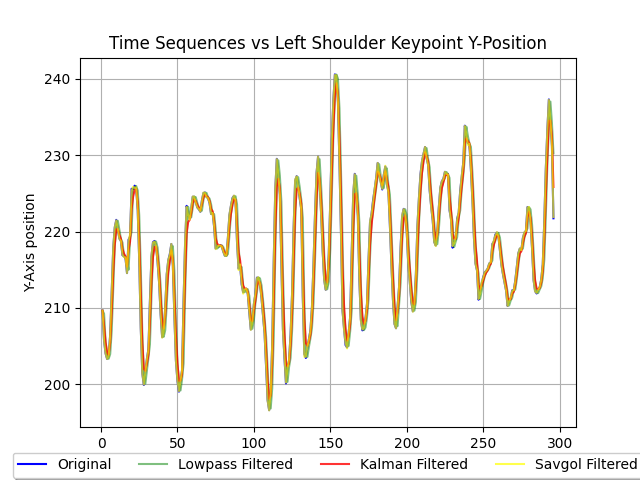
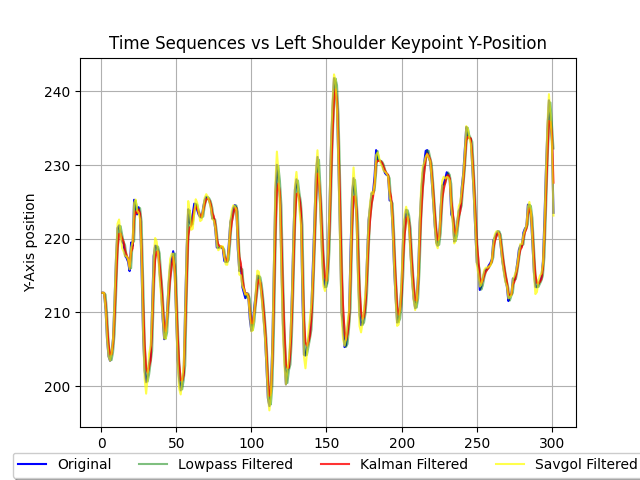
up

diff --git a/Compare_Time.py b/Compare_Time.py
@@ -11,16 +11,41 @@ jointNum = 33
 alpha = 0.1
 valuescy = []
 values, valuesLow, valuesKalman, valuesSavgol = [], [], [], []
+valuesMix = []
+mix = []
 kf = KalmanFilter(initial_state_mean=0, n_dim_obs=1)
+def Kalman1D(observations, damping, previous, cov):
+    # To return the smoothed time series data
+    observation_covariance = damping
+    initial_value_guess = observations
+    transition_matrix = 1
+    transition_covariance = cov
+    kf = KalmanFilter(
+            initial_state_mean=initial_value_guess,
+            initial_state_covariance=observation_covariance,
+            observation_covariance=observation_covariance,
+            transition_covariance=transition_covariance,
+            transition_matrices=transition_matrix
+        )
+    pred_state, state_cov = kf.filter_update(previous, transition_covariance, observations)
+    return pred_state[0][0]
+
 mpPose = mp.solutions.pose  # 导入BlazePose模型
 mpDraw = mp.solutions.drawing_utils  # 对识别到的人体进行描边，可视化给操作人员
 pose = mpPose.Pose(min_detection_confidence=0.97, min_tracking_confidence=0.97)
+
+values1, values2, values3, values4 = [], [], [], []
 
 def Capinit(cap, pose, opcode):
     begin = time.time()
     sequenceNum = 0
     while True:
+        now = time.time()
         success, img = cap.read()  # 若成功读取到人体动态，success会变为true
+        cv2.imshow("Image", img)
+        key = cv2.waitKey(1)
+        if key == ord("q"):
+            break
         if success:
             imgRGB = cv2.cvtColor(img, cv2.COLOR_BGR2RGB)  # 将读取到的这一帧转为RGB图像用于传入模型
             results = pose.process(imgRGB)  # 模型输出了33个人体采样点
@@ -33,66 +58,55 @@ def Capinit(cap, pose, opcode):
                         # 主数据预处理
                         h, w, c = img.shape  # h,w,c 获得当前摄像头显示图像的宽高比
                         cx, cy = lm.x * w, lm.y * 480
-                        if opcode == 0:
-                            continue
                         if opcode == 1:
-                            values.append(str(time.time() - begin) + ',' + str(cy))
-                        if opcode == 2:
-                            # 使用一阶低通滤波器
-                            if sequenceNum == 1:
-                                valuesLow.append(str(time.time() - begin) + ',' + str(cy))
+                            values1.append(str(time.time() - begin) + ',' + str(cy))
                             if sequenceNum > 1:
                                 valuesLow.append(
                                     str(time.time() - begin) + ',' + str(alpha * cy + (1 - alpha) * previousCy))
                             previousCy = cy
-                        if opcode == 3:
-                            # 使用卡尔曼滤波器进行状态估计
+                        if opcode == 2:
+                            values2.append(str(now - begin) + ',' + str(cy))
                             if sequenceNum == 1:
-                                state_mean, state_cov = cy, 0.001
-                                valuesKalman.append(str(time.time() - begin) + ',' + str(state_mean))
+                                state_mean, state_cov = cy, 0.01
+                                state_mean, state_cov = kf.filter_update(state_mean, state_cov, cy)
+                                state_mean_value = state_mean[0][0]
+                                valuesKalman.append(str(time.time() - begin) + ',' + str(state_mean_value))
                             else:
                                 state_mean, state_cov = kf.filter_update(state_mean, state_cov, cy)
                                 state_mean_value = state_mean[0][0]
                                 valuesKalman.append(str(time.time() - begin) + ',' + str(state_mean_value))
+                        if opcode == 3:
+                            values4.append(str(now - begin) + ',' + str(cy))
+                            if sequenceNum == 1:
+                                mix.append(cy)
+                            if sequenceNum > 1:
+                                Mix = 0.7 * cy + (1 - 0.7) * previousCy2
+                                state_mean_value2 = Kalman1D(Mix, 0.013, mix[sequenceNum - 2], 0.03)
+                                mix.append(state_mean_value2)
+                                valuesMix.append(str(time.time() - begin) + ',' + str(state_mean_value2))
+                            previousCy2 = cy
                         if opcode == 4:
-                            window_length = 7  # 窗口长度（奇数）
-                            polyorder = 3  # 多项式阶数
+                            window_length = 7
+                            polyorder = 3
                             valuescy.append(cy)
+                            values3.append(str(now - begin) + ',' + str(cy))
                             if sequenceNum >= window_length:
                                 y_smoothed = savgol_filter(valuescy[-window_length:], window_length, polyorder)
                                 valuesSavgol.append(str(time.time() - begin) + ',' + str(y_smoothed[-1]))
                             else:
                                 valuesSavgol.append(str(time.time() - begin) + ',' + str(cy))
+
             else:
                 continue
         else:
             break
+
     cap.release()
     cv2.destroyAllWindows()
 
-# 第0轮
-cap = cv2.VideoCapture("C:/Users/ALIENWARE/Desktop/Study/AI/Tewst.mp4")  # 用外置摄像头实时捕捉
-cap.set(cv2.CAP_PROP_FPS, 30)
-Capinit(cap, pose, 0)
-
-# 第1轮
-cap = cv2.VideoCapture("C:/Users/ALIENWARE/Desktop/Study/AI/Tewst.mp4")  # 用外置摄像头实时捕捉
-cap.set(cv2.CAP_PROP_FPS, 30)
-Capinit(cap, pose, 1)
-
-# 第2轮
-cap = cv2.VideoCapture("C:/Users/ALIENWARE/Desktop/Study/AI/Tewst.mp4")  # 用外置摄像头实时捕捉
-cap.set(cv2.CAP_PROP_FPS, 30)
-Capinit(cap, pose, 2)
-
-# 第3轮
-cap = cv2.VideoCapture("C:/Users/ALIENWARE/Desktop/Study/AI/Tewst.mp4")  # 用外置摄像头实时捕捉
-cap.set(cv2.CAP_PROP_FPS, 30)
-Capinit(cap, pose, 4)
-
-# 第4轮
-cap = cv2.VideoCapture("C:/Users/ALIENWARE/Desktop/Study/AI/Tewst.mp4")  # 用外置摄像头实时捕捉
-cap.set(cv2.CAP_PROP_FPS, 30)
+# opcode
+cap = cv2.VideoCapture(1)  # 用外置摄像头实时捕捉
+cap.set(cv2.CAP_PROP_FPS, 30)  # 尝试将帧率设置为30帧每秒
 Capinit(cap, pose, 3)
 
 def Flatten(values, numOrders, numCys):
@@ -103,25 +117,37 @@ def Flatten(values, numOrders, numCys):
 
 numOrders1, numOrders2, numOrders3, numOrders4 = [], [], [], []
 numCys1, numCys2, numCys3, numCys4 = [], [], [], []
+numCy1, numCy2, numCy3, numCy4 = [], [], [], []
+num1, num2, num3, num4 = [], [], [], []
+Flatten(valuesLow, numOrders1, numCys1)
+Flatten(values1, num1, numCy1)
+Flatten(valuesKalman, numOrders2, numCys2)
+Flatten(values2, num2, numCy2)
+Flatten(valuesSavgol, numOrders3, numCys3)
+Flatten(values3, num3, numCy3)
+Flatten(valuesMix, numOrders4, numCys4)
+Flatten(values4, num4, numCy4)
+# plt.plot(num1, numCy1, label='Original_Lowpass', color='blue')
+# plt.plot(numOrders1, numCys1, label='Lowpass Filtered', color='green', alpha=1)
+# plt.plot(num2, numCy2, label='Original', color='blue')
+# plt.plot(numOrders2, numCys2, label='Kalman Filtered', color='red', alpha=1)
+# plt.plot(num3, numCy3, label='Original', color='blue')
+# plt.plot(numOrders3, numCys3, label='Savgol Filtered', color='orange', alpha=1)
+plt.plot(num4, numCy4, label='Original', color='blue')
+plt.plot(numOrders4, numCys4, label='Mixed Filtered', color='orange', alpha=1)
 
-Flatten(values, numOrders1, numCys1)
-Flatten(valuesLow, numOrders2, numCys2)
-Flatten(valuesKalman, numOrders3, numCys3)
-Flatten(valuesSavgol, numOrders4, numCys4)
-
-plt.plot(numOrders1, numCys1, label='Original', color='blue')
-plt.plot(numOrders2, numCys2, label='Lowpass Filtered', color='green', alpha=0.5)
-plt.plot(numOrders3, numCys3, label='Kalman Filtered', color='red', alpha=0.8)
-plt.plot(numOrders4, numCys4, label='Savgol Filtered', color='yellow', alpha=0.7)
 plt.xlabel('Time Sequences')
 plt.ylabel('Y-Axis position')
 plt.title('Time Sequences vs Left Shoulder Keypoint Y-Position')
-plt.legend(loc='upper center', bbox_to_anchor=(0.5, -0.05), shadow=True, ncol=4)
+plt.legend(loc='upper center', bbox_to_anchor=(0.5, -0.05), shadow=True, ncol=2)
 plt.grid()
 plt.show()
 
-d = np.mean(np.array(numOrders2) - np.array(numOrders1))
-e = np.mean(np.array(numOrders3) - np.array(numOrders1))
-f = np.mean(np.array(numOrders4) - np.array(numOrders1))
+num4.pop()
 
-print(d, e, f)
+d = np.mean(np.array(numOrders1) - np.array(num1))
+e = np.mean(np.array(numOrders2) - np.array(num2))
+f = np.mean(np.array(numOrders3) - np.array(num3))
+g = np.mean(np.array(numOrders4) - np.array(num4))
+
+print(d, e, f, g)

diff --git a/Compare.py b/Compare.py
@@ -21,9 +21,26 @@ sequenceNum = 0
 # 初始化一阶低通滤波器
 alpha = 0.1
 valuesLow = []
-kf = KalmanFilter(initial_state_mean=208, n_dim_obs=1)
+valuesMix = []
 valuesSavgol = []
 valuescy = []
+
+def Kalman1D(observations, damping, previous, cov):
+    # To return the smoothed time series data
+    observation_covariance = damping
+    initial_value_guess = observations
+    transition_matrix = 1
+    transition_covariance = cov
+    kf = KalmanFilter(
+            initial_state_mean=initial_value_guess,
+            initial_state_covariance=observation_covariance,
+            observation_covariance=observation_covariance,
+            transition_covariance=transition_covariance,
+            transition_matrices=transition_matrix
+        )
+    pred_state, state_cov = kf.filter_update(previous, transition_covariance, observations)
+    return pred_state[0][0]
+
 while True:
     success, img = cap.read()  # 若成功读取到人体动态，success会变为true
     if success:
@@ -39,19 +56,26 @@ while True:
                         h, w, c = img.shape  # h,w,c 获得当前摄像头显示图像的宽高比
                         data = np.array([lm.x * w, lm.y * 480, lm.z * 1000])  # 直接获取关键点的坐标
                         cx, cy = lm.x * w, lm.y * 480
-                        cy = cy - sequenceNum * 0.005
-                        if sequenceNum > 350 and sequenceNum < 450:
-                            cy = cy + sequenceNum * 0.0085
                         valuescy.append(cy)
                         values.append(str(sequenceNum) + ',' + str(cy))
 
+                        # 混合滤波器
+                        if sequenceNum == 1:
+                            state_mean_value2 = Kalman1D(cy, 0.013, cy, 0.03)
+                            valuesMix.append(state_mean_value2)
+                        if sequenceNum > 1:
+                            Mix = 0.7 * cy + (1 - 0.7) * previousCy2
+                            state_mean_value2 = Kalman1D(Mix, 0.013, valuesMix[sequenceNum-2], 0.03)
+                            valuesMix.append(state_mean_value2)
+                        previousCy2 = cy
+
                         # 使用卡尔曼滤波器进行状态估计
                         if sequenceNum == 1:
-                            state_mean, state_cov = cy, 0.001
-                            valuesKalman.append(state_mean)
+                            state_mean, state_cov = cy, 0.01
+                            state_mean_value = Kalman1D(cy, 0.013, cy, 0.01)
+                            valuesKalman.append(state_mean_value)
                         else:
-                            state_mean, state_cov = kf.filter_update(state_mean, state_cov, cy)
-                            state_mean_value = state_mean[0][0]
+                            state_mean_value = Kalman1D(cy, 0.013, valuesKalman[sequenceNum-2], 0.01)
                             valuesKalman.append(state_mean_value)
 
                         # 使用一阶低通滤波器
@@ -61,17 +85,13 @@ while True:
                             valuesLow.append(alpha * cy + (1 - alpha) * previousCy)
                         previousCy = cy
 
-                        # 执行SAVGOL
                         # 执行Savitzky-Golay滤波
                         window_length = 7  # 窗口长度（奇数）
                         polyorder = 3  # 多项式阶数
                         if sequenceNum >= window_length:
-                            # Apply the SAVGOL filter to the list of values up to the current point
                             y_smoothed = savgol_filter(valuescy[-window_length:], window_length, polyorder)
-                            # Append the last smoothed value to the `valuesSavgol` list
                             valuesSavgol.append(y_smoothed[-1])
                         else:
-                            # Not enough points yet, just append the current `cy` to `valuesSavgol`
                             valuesSavgol.append(cy)
 
 
@@ -93,10 +113,13 @@ for value in values:
     numOrders.append(int(numOrder))
     numCys.append(float(numCy))
 
+valuesKalman = np.ravel(valuesKalman)
+
 plt.plot(numOrders, numCys, label='Original', color='blue')
 plt.plot(numOrders, valuesLow, label='Lowpass Filtered', color='green', alpha=0.5)
 plt.plot(numOrders, valuesKalman, label='Kalman Filtered', color='red', alpha=0.8)
 plt.plot(numOrders, valuesSavgol, label='Savgol Filtered', color='yellow', alpha=0.7)
+plt.plot(numOrders, valuesMix, label='Mixed Filtered', color='orange', alpha=0.7)
 plt.xlabel('Time Sequences')
 plt.ylabel('Y-Axis position')
 plt.title('Time Sequences vs Left Shoulder Keypoint Y-Position')
@@ -104,8 +127,12 @@ plt.legend(loc='upper center', bbox_to_anchor=(0.5, -0.05), shadow=True, ncol=4)
 plt.grid()
 plt.show()
 
+print(valuesKalman)
+
 # 计算均方误差
 a = mean_squared_error(numCys, valuesLow)
 b = mean_squared_error(numCys, valuesKalman)
 c = mean_squared_error(numCys, valuesSavgol)
-print(a, b, c)
+d = mean_squared_error(numCys, valuesMix)
+
+print(a, b, c, d)

diff --git a/Sender.py b/Sender.py
@@ -17,15 +17,16 @@ pTime = 0  # 用于帧率检查
 jointNum = 33  # 会跟踪33个关节点
 sock = socket.socket(socket.AF_INET, socket.SOCK_DGRAM)  # 创建UDP套接字
 serverAddressPort = ("127.0.0.1", 5053)  # 设置本地/外部ip，并使用5053端口单向广播数据
+order = 0
 
 # 引入Kalman滤波器进行线性滤波，过滤掉噪声和干扰的影响，通过实际测量和状态预测进行预测修正
-kalmanParamQ = 0.000070  # Q表示噪声协方差，Q较大系统会认为模型不准
-kalmanParamR = 0.000095  # R表示测量协方差，R较大系统会认为观察不准，这里R>Q，认为模型暂时准确
+kalmanParamQ = 0.070  # Q表示噪声协方差，Q较大系统会认为模型不准
+kalmanParamR = 0.095  # R表示测量协方差，R较大系统会认为观察不准，这里R>Q，认为模型暂时准确
 K = np.zeros((jointNum, 3), dtype=np.float32)
 P = np.zeros((jointNum, 3), dtype=np.float32)
 X = np.zeros((jointNum, 3), dtype=np.float32)
 # 引入低通滤波器，允许低频信号通过，从而过滤掉短暂的，突发的动作，使得关节点数据更加平稳
-lowPassParam = 0.05  # 该参数大，滤波效果差，但对数据反应快速，参数较小，滤波效果好，对数据反应较慢，故选取中间数
+lowPassParam = 0.7  # 该参数大，滤波效果差，但对数据反应快速，参数较小，滤波效果好，对数据反应较慢，故选取中间数
 # 空白数据包，每一次向接收端发一个储存6帧信息的矩阵，每一帧存储33个骨骼位点，3个维度(x,y,z)
 PrevPose3D = np.zeros((6, jointNum, 3), dtype=np.float32)
 
@@ -65,6 +66,12 @@ while True:
                     # 主数据预处理
                     h, w, c = img.shape  # h,w,c 获得当前摄像头显示图像的宽高比
                     data = np.array([lm.x * h, lm.y * w, lm.z * 1000])  # 直接获取关键点的坐标
+                    if order == 0:
+                        preData = data
+                    else:
+                        for i in range(0, 2):
+                            data[i] = data[i] * lowPassParam + (1 - lowPassParam) * preData[i]
+                    order += 1
                     '''这里1000是为了坐标匹配定义的，可以根据需求更改'''
                     # 进行卡尔曼滤波器的递归
                     K[id] = (P[id] + kalmanParamQ) / (P[id] + kalmanParamQ + kalmanParamR)
@@ -73,11 +80,7 @@ while True:
                     X[id] = smooth_kps  # 用于下一次迭代
                     # 用于滤波的数据应该是3D的，每一行代表一个关节点的x，y，z坐标
                     PrevPose3D[0, id, :] = smooth_kps  # 获得了经过卡尔曼滤波的估计值
-                    for j in range(1, 6):
-                        PrevPose3D[j, id, :] = PrevPose3D[j, id, :] * lowPassParam + PrevPose3D[j - 1, id, :] * (
-                                    1.0 - lowPassParam)
-                    # 在完成所有关键点的处理之后，将数据打包并发送
-                    sendData = ','.join(PrevPose3D[5].flatten().astype(str).tolist())
+                    sendData = ','.join(PrevPose3D[0].flatten().astype(str).tolist())
                     # print(sendData)
                     dataBuffer.put(sendData)
                     # 可视化的操作，给测试人员直观的映像
